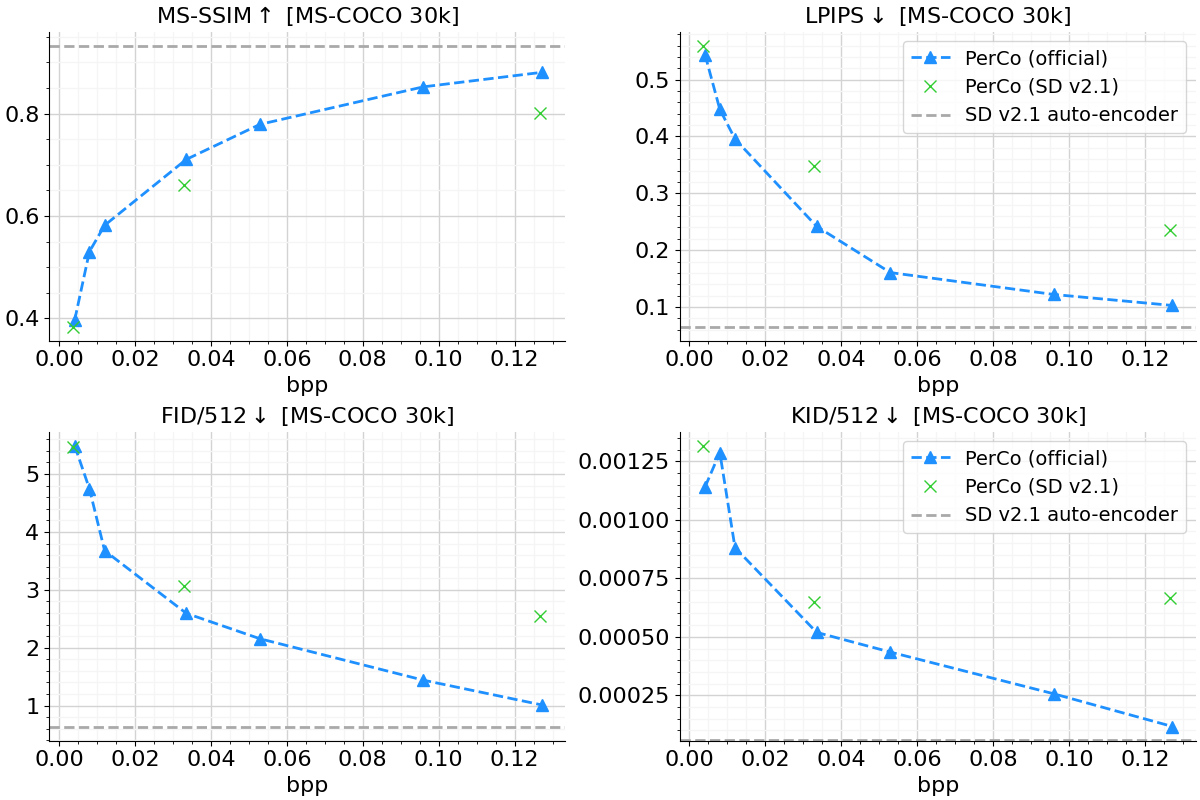
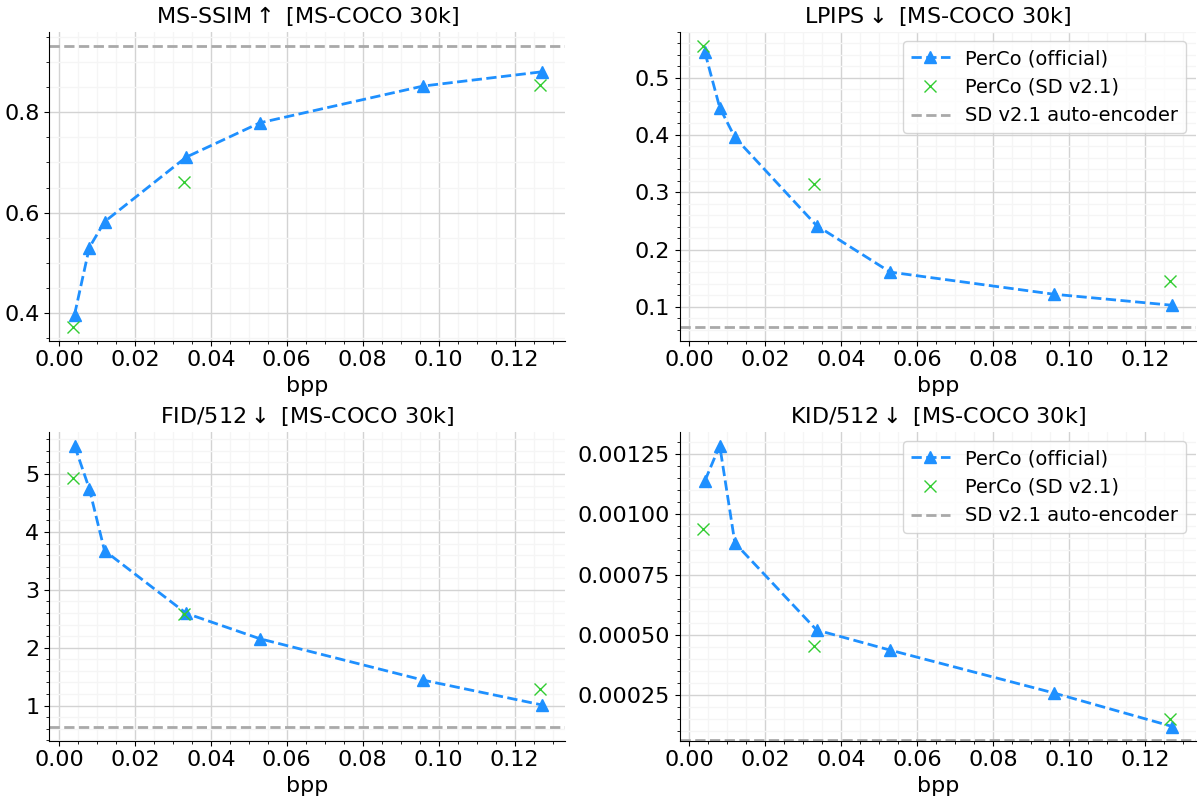
resolved training instabilities, switched back to official hyper-encoder

diff --git a/src/train_sd_perco.py b/src/train_sd_perco.py
@@ -85,7 +85,7 @@ from pipeline_sd_perco import StableDiffusionPipelinePerco
 
 # we load our custom UNet2DConditionModel
 from unet_2d_perco import UNet2DConditionModel
-from hyper_encoder_v2 import HyperEncoder
+from hyper_encoder import HyperEncoder
 # from hyper_encoder import HyperEncoder
 from helpers import prob_mask_like, find_linear_layers, update_scheduler, get_pred_original_sample
 

diff --git a/src/hyper_encoder_v2.py b/src/hyper_encoder_v2.py
@@ -219,6 +219,7 @@ class HyperEncoder(ModelMixin, ConfigMixin):
         # VQ
         self.quantizer = VectorQuantize(dim=num_filters_out,
                                         codebook_size=cfg_cs,
+                                        use_cosine_sim = True,
                                         codebook_dim=codebook_dim)
 
     def forward(self, z: Tensor) -> Tensor:

diff --git a/src/hyper_encoder.py b/src/hyper_encoder.py
@@ -139,6 +139,7 @@ class HyperEncoder(ModelMixin, ConfigMixin):
         # VQ
         self.quantizer = VectorQuantize(dim=M,
                                         codebook_size=cfg_cs,
+                                        use_cosine_sim = True,
                                         codebook_dim=codebook_dim)
 
     def forward(self, z: Tensor) -> Tensor:

diff --git a/src/pipeline_sd_perco.py b/src/pipeline_sd_perco.py
@@ -54,7 +54,7 @@ from diffusers.pipelines.stable_diffusion.safety_checker import StableDiffusionS
 
 # we load our custom UNet2DConditionModel
 from unet_2d_perco import UNet2DConditionModel
-from hyper_encoder_v2 import HyperEncoder
+from hyper_encoder import HyperEncoder
 
 # from hyper_encoder import HyperEncoder
 

diff --git a/README.md b/README.md
@@ -16,6 +16,10 @@ Under active development.
 
 ## Updates
 
+***05/29/2024***
+1. Switched back to official hyper-encoder design, resolved training instabilities
+2. Significantly improved results (limited to 50k optimization steps)
+
 ***05/24/2024***
 
 1. Initial release of this project
@@ -25,11 +29,11 @@ Under active development.
 Visual Comparison on the [Kodak dataset](https://r0k.us/graphics/kodak/), for our lowest bit-rate (0.0019bpp). Column 1: ground truth. Columns 2-5: set of reconstructions that reflect the uncertainty about the original image source. 
 
 <div align="center">
-  <img src="./res/doc/figures/lo_kodim13_a river runs through a forest with mountains in the background.png" width="95%" alt="lo_kodim13_a river runs through a forest with mountains in the background.png">
+  <img src="./res/doc/figures/lo_kodim13_a river runs through a rocky forest with mountains in the background.png" width="95%" alt="lo_kodim13_a river runs through a rocky forest with mountains in the background.png">
 </div>
 
 ```python
-Global conditioning: "a river runs through a forest with mountains in the background".
+Global conditioning: "a river runs through a rocky forest with mountains in the background".
 ```
 
 <div align="center">
@@ -40,14 +44,13 @@ Global conditioning: "a river runs through a forest with mountains in the backgr
 Global conditioning: "two parrots standing next to each other with leaves in the background".
 ```
 
-More visual results can be found [here](./res/doc/figures).
+More visual results can be found [~~here~~ coming soon](./res/doc/figures).
 
 ## Quantitative Performance
 
-In this section we quantitatively compare the performance of PerCo (SD v2.1) to the officially reported numbers. All models were trained using a reduced set of optimization steps (15k). Note that the performance is bounded by the LDM auto-encoder, denoted as SD v2.1 auto-encoder.
+In this section we quantitatively compare the performance of PerCo (SD v2.1) to the officially reported numbers. All models were trained using a reduced set of optimization steps (50k). Note that the performance is bounded by the LDM auto-encoder, denoted as SD v2.1 auto-encoder.
 
-We generally find that PerCo (SD v2.1) provides competitive results with PerCo (official) for the ultra-low bit-rate setting (0.0019bpp), both in terms of distortion (MS-SSIM, LPIPS) and perception (FID, KID). 
-As we approach the higher bit-rates, we observe that the performance gap grows - this could indicate that the use of local features produced by our [hyper_encoder_v2](/src/hyper_encoder_v2.py) has not yet reached its full potential. We believe that investigating different architectures (e.g. based on [SwinT-ChARM](https://openreview.net/pdf?id=IDwN6xjHnK8)) is a promising direction for future work. Also note that PerCo (official) was trained using 5 epochs (9M training samples / batch size 160 * 5 epochs = 281250 optimization steps) vs. 15k steps, which roughly corresponds to 5%.
+Note that PerCo (official) was trained using 5 epochs (9M training samples / batch size 160 * 5 epochs = 281250 optimization steps) vs. 50k steps, which roughly corresponds to 18%.
 
 We will continue our experiments and hope to release more powerful variants at a later stage.
 
@@ -110,7 +113,6 @@ We also provide a simplified Google Colab demo that integrates any [tfds](https:
 
 **Note:** 
 - we have not adjusted the finetuning grid to 50 timesteps as described in the paper. 
-- we use a custom hyper-encoder based on HiFiC ([hyper_encoder_v2.py](./src/hyper_encoder_v2.py)), which for our setup provides more stable gradients compared to the official variant based on ELIC ([hyper_encoder.py](./src/hyper_encoder.py)). 
 - we use [Stable Diffusion v2.1](https://huggingface.co/stabilityai/stable-diffusion-2-1) as LDM, due to its native shift from epsilon to v-prediction. In general, however, this project also supports SD 1.X variants with minor adjustments:
     ```bash
     from helpers import update_scheduler
@@ -121,7 +123,7 @@ We also provide a simplified Google Colab demo that integrates any [tfds](https:
     ```
 
 ## Pre-trained Models
-Pre-trained models corresponding to 0.1250bpp, 0.0313bpp and 0.0019bpp can be downloaded [here](https://drive.google.com/drive/folders/11xHN61L7GqrJqEQbdtagbKBwMj1KZMf5?usp=sharing).
+Pre-trained models corresponding to 0.1250bpp, 0.0313bpp and 0.0019bpp can be downloaded [~~here~~ coming soon](https://drive.google.com/drive/folders/11xHN61L7GqrJqEQbdtagbKBwMj1KZMf5?usp=sharing).
 
 All models were trained using a DGX H100 using the following command:
 
@@ -136,7 +138,7 @@ All models were trained using a DGX H100 using the following command:
 --train_batch_size=20 \
 --gradient_accumulation_steps=1 \
 --num_train_epochs=5 \
---max_train_steps 15000 \
+--max_train_steps 50000 \
 --validation_steps 500 \
 --prediction_type="v_prediction" \
 --checkpointing_steps 500 \
@@ -177,8 +179,8 @@ If you find better hyper-parameters, please share them with the community.
          ├── compression_utils.py                       # CLI tools for PerCo compression/ decompression
          ├── config.py                                  # PerCo global configuration (training + inference)
          ├── helpers.py                                 # helper functionality
-         ├── hyper_encoder_v2.py                        # hyper-encoder + quantization (based on HiFiC, slow but steady learning)
-         ├── hyper_encoder.py                           # hyper-encoder + quantization (based on ELIC, unstable for our setup)
+         ├── hyper_encoder_v2.py                        # hyper-encoder + quantization (based on HiFiC)
+         ├── hyper_encoder.py                           # hyper-encoder + quantization (based on ELIC)
          ├── lpips_stable.py                            # stable LPIPS implementation based on MS-ILLM/ NeuralCompression
          ├── openimages_v6.py                           # minimalistic dataloader for OpenImagesV6
          ├── pipeline_sd_perco.py                       # custom HuggingFace Pipeline which bundles image generation (=decompression)
